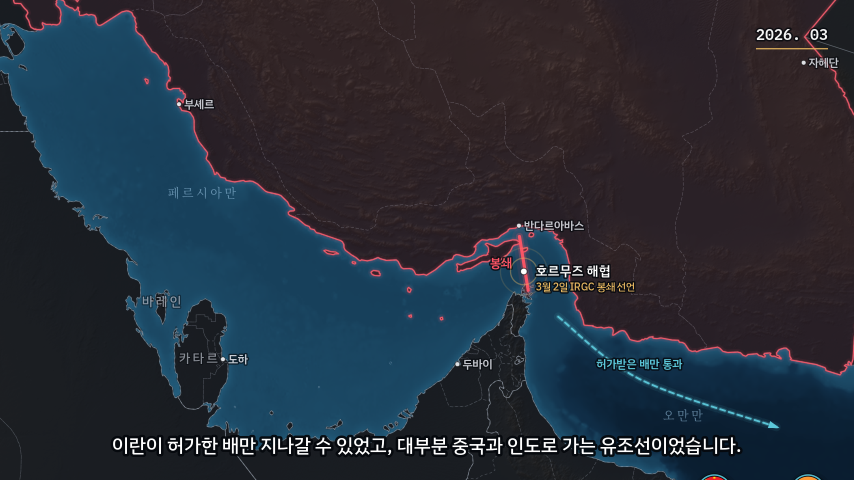
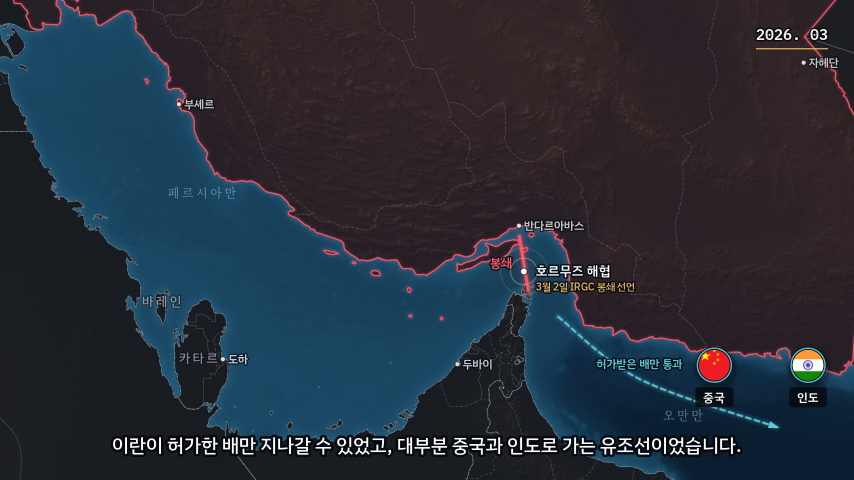
v3.1.0: v3 뱃지(중국·인도) 화면 밖 잘림 수정 — 위도 23.35 → 25.2(상자 y ≤ 410 실측 최소치), 08 war_3 expected_deltas(D-0048), hormuz checks hard 0 → hard 실패 = preview 단계 실패 배선(17 §3) + 테스트 (back_and_forth D-0048·D-0047 작업 6)
Claude-Session: https://claude.ai/code/session_01Hi7BexVBQfpM3ALRnXChcZ

diff --git a/engine/render.py b/engine/render.py
@@ -209,7 +209,6 @@ def main(argv: list[str] | None = None) -> int:
         if args.chunk:
             render_chunk(P, int(args.chunk[0]), int(args.chunk[1]), Path(args.chunk[2]))
             return 0
-        hard_msgs: list[str] = []
         if args.preview:
             lt = preview_times(P, args.preview)
             arts = {f"prev/{Path(p).name}": p for p in preview(P, [t for _, t in lt], [n for n, _ in lt])}
@@ -218,15 +217,17 @@ def main(argv: list[str] | None = None) -> int:
             arts["checks"] = str(P.root / "prev" / "checks.json")
             arts["frames"] = str(P.root / "prev" / "frames.json")
             chk = json.loads((P.root / "prev" / "checks.json").read_text(encoding="utf-8"))
-            # hard 실패 → 이 단계 실패(17 §3) 배선은 R-0053 결정 뒤(v3 골든의 뱃지 잘림 2건). 지금은 경고로 보고만 한다
-            hard_msgs = [f"checks hard {i['id']}: {d}" for i in chk["items"] if i["severity"] == "hard" for d in i["details"]]
+            if not chk["passed"]:   # hard 실패 = 이 단계 실패 — 시각 검수로 가지 않고 연출에 오류를 돌려준다(17 §3, D-0048)
+                errs = [f"checks hard {i['id']}: {d}" for i in chk["items"] if i["severity"] == "hard" for d in i["details"]]
+                res = StageResult(ok=False, stage=stage, artifacts=arts, warnings=P.warnings, errors=errs[:50])
+                print(json.dumps(res.model_dump(), ensure_ascii=False))
+                return 1
         else:
             from orchestrator.config import load_config  # noqa: PLC0415
 
             jobs = args.jobs if args.jobs is not None else load_config().engine.jobs
             arts = {"video_noaudio": str(render_full(P, jobs))}
-        res = StageResult(ok=True, stage=stage, artifacts=arts,
-                          warnings=P.warnings + (hard_msgs if args.preview else []))
+        res = StageResult(ok=True, stage=stage, artifacts=arts, warnings=P.warnings)
     except (ProjectError, RegistryError, RuntimeError, OSError, ValueError) as ex:
         res = StageResult(ok=False, stage=stage, errors=[str(ex)])
     print(json.dumps(res.model_dump(), ensure_ascii=False))

diff --git a/tests/test_checks.py b/tests/test_checks.py
@@ -84,3 +84,37 @@ class ChecksTest(unittest.TestCase):
 
 if __name__ == "__main__":
     unittest.main()
+
+
+class PreviewHardFailTest(unittest.TestCase):
+    """17 §3·D-0048 — checks hard 가 있으면 preview 단계 StageResult ok=False(시각 검수로 가지 않는다)."""
+
+    def test_hard_fails_stage(self) -> None:
+        import io  # noqa: PLC0415
+        import json  # noqa: PLC0415
+        import tempfile  # noqa: PLC0415
+        from contextlib import redirect_stdout  # noqa: PLC0415
+        from pathlib import Path  # noqa: PLC0415
+        from unittest import mock  # noqa: PLC0415
+
+        from engine import render  # noqa: PLC0415
+
+        with tempfile.TemporaryDirectory() as d:
+            root = Path(d)
+            (root / "prev").mkdir()
+            fake = NS(root=root, warnings=[])
+
+            def fake_preview(P, times, labels=None):  # noqa: ANN001, ANN202, N803
+                (root / "prev" / "checks.json").write_text(json.dumps({"passed": False, "items": [
+                    {"id": "offscreen", "severity": "hard", "details": ["뱃지 x 화면 밖"]}]}), encoding="utf-8")
+                return []
+
+            buf = io.StringIO()
+            with mock.patch.object(render, "load_project", return_value=fake), \
+                 mock.patch.object(render, "preview_times", return_value=[("t=1.00", 1.0)]), \
+                 mock.patch.object(render, "preview", side_effect=fake_preview), redirect_stdout(buf):
+                rc = render.main([str(root), "--preview", "auto"])
+            res = json.loads(buf.getvalue().strip().splitlines()[-1])
+        self.assertEqual(rc, 1)
+        self.assertFalse(res["ok"])
+        self.assertIn("offscreen", res["errors"][0])

diff --git a/tests/test_direction_convert.py b/tests/test_direction_convert.py
@@ -16,6 +16,11 @@ from engine.timebase import Timebase
 from tests.direction_snapshot import snapshot, synthetic_plan
 
 REPO = Path(__file__).resolve().parent.parent
+# 변환 뒤 결정으로 바꾼 값(스냅샷 = 옛 연출). (프로젝트, 타입, label) → 바뀐 필드. 여기 없는 차이는 전부 실패
+INTENDED: dict[tuple[str, str, str], dict] = {
+    ("hormuz_korea", "badge", "중국"): {"lat": 25.2},   # D-0048 화면 밖 잘림 수정(23.35 → 25.2)
+    ("hormuz_korea", "badge", "인도"): {"lat": 25.2},
+}
 
 
 class ConvertFidelityTest(unittest.TestCase):
@@ -27,6 +32,11 @@ class ConvertFidelityTest(unittest.TestCase):
                 keys, events, sound = build(load_direction_doc(proj / "direction.yaml"), tb)
                 got = snapshot(keys, events, sound, tb)
                 want = json.loads((REPO / "tests" / "fixtures" / "direction" / f"{name}_old_synthetic.json").read_text(encoding="utf-8"))
+                for (pj, typ, label), upd in INTENDED.items():
+                    if pj == name:
+                        hit = [e for e in want["events_by_type"][typ] if e.get("label") == label]
+                        self.assertEqual(len(hit), 1, label)
+                        hit[0].update(upd)
                 self.assertEqual(got["keys"], want["keys"])
                 self.assertEqual(sorted(got["events_by_type"]), sorted(want["events_by_type"]))
                 for typ in want["events_by_type"]:
